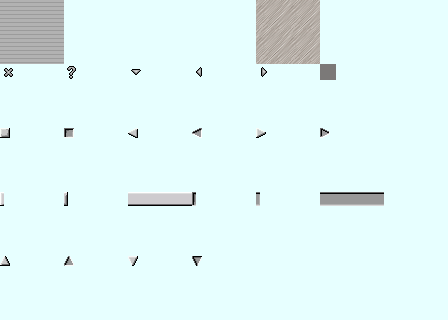
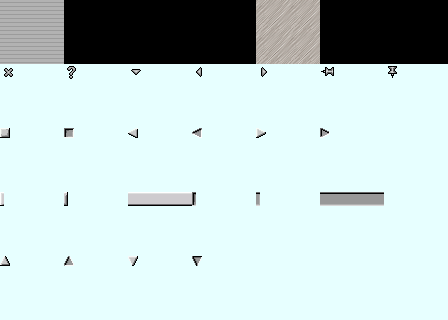
ADD: (sewd) + prissi Sticky window function, which are only closed by delete key
.B-REF a49e5c35c70f19ab73491ef7b6c88d54bbc60263

git-svn-id: svn://tron.homeunix.org/simutrans/simutrans/trunk@3462 8aca7d54-2c30-db11-9de9-000461428c89

Changed region(s): [[0.125, 0.0, 0.5938, 0.2188], [0.6875, 0.0, 1.0, 0.25]]

diff --git a/gui/components/gui_button.cc b/gui/components/gui_button.cc
@@ -27,33 +27,43 @@
 #define AUTOMATIC_MASK (255)
 static const char *empty="";
 
-/*
- * Hajo: image numbers of button skins
- */
-static image_id square_button_pushed = IMG_LEER;
-static image_id square_button_normal = IMG_LEER;
-static image_id arrow_left_pushed = IMG_LEER;
-static image_id arrow_left_normal = IMG_LEER;
-static image_id arrow_right_pushed = IMG_LEER;
-static image_id arrow_right_normal = IMG_LEER;
-static image_id arrow_up_pushed = IMG_LEER;
-static image_id arrow_up_normal = IMG_LEER;
-static image_id arrow_down_pushed = IMG_LEER;
-static image_id arrow_down_normal = IMG_LEER;
+// default button codes
+#define SQUARE_BUTTON 0
+#define ARROW_LEFT 1
+#define ARROW_RIGHT 2
+#define ARROW_UP 3
+#define ARROW_DOWN 4
+#define SCROLL_BAR 5
 
-// these are optional: buttons made out of graphics
-static image_id b_cap_left = IMG_LEER;
-static image_id b_body = IMG_LEER;
-static image_id b_cap_right = IMG_LEER;
-
-static image_id b_cap_left_p = IMG_LEER;
-static image_id b_body_p = IMG_LEER;
-static image_id b_cap_right_p = IMG_LEER;
-
-
+// colors
 #define RB_LEFT_BUTTON (201)
 #define RB_BODY_BUTTON (202)
 #define RB_RIGHT_BUTTON (203)
+
+
+/*
+ * Hajo: image numbers of button skins
+ */
+image_id button_t::square_button_pushed = IMG_LEER;
+image_id button_t::square_button_normal = IMG_LEER;
+image_id button_t::arrow_left_pushed = IMG_LEER;
+image_id button_t::arrow_left_normal = IMG_LEER;
+image_id button_t::arrow_right_pushed = IMG_LEER;
+image_id button_t::arrow_right_normal = IMG_LEER;
+image_id button_t::arrow_up_pushed = IMG_LEER;
+image_id button_t::arrow_up_normal = IMG_LEER;
+image_id button_t::arrow_down_pushed = IMG_LEER;
+image_id button_t::arrow_down_normal = IMG_LEER;
+
+// these are optional: buttons made out of graphics
+image_id button_t::b_cap_left = IMG_LEER;
+image_id button_t::b_body = IMG_LEER;
+image_id button_t::b_cap_right = IMG_LEER;
+
+image_id button_t::b_cap_left_p = IMG_LEER;
+image_id button_t::b_body_p = IMG_LEER;
+image_id button_t::b_cap_right_p = IMG_LEER;
+
 
 /**
  * Lazy button image number init
@@ -93,7 +103,7 @@ void button_t::init_button_images()
  * Displays the different button types
  * @author Hj. Malthaner
  */
-static void display_button_image(sint16 x, sint16 y, int number, bool pushed)
+void button_t::display_button_image(sint16 x, sint16 y, int number, bool pushed) const
 {
 	image_id button = IMG_LEER;
 
@@ -130,7 +140,7 @@ static void display_button_image(sint16 x, sint16 y, int number, bool pushed)
 
 
 // draw a rectangular button
-static void draw_roundbutton(sint16 x, sint16 y, sint16 w, sint16 h, bool pressed)
+void button_t::draw_roundbutton(sint16 x, sint16 y, sint16 w, sint16 h, bool pressed)
 {
 	if(b_cap_left!=IMG_LEER  &&  h==14) {
 		const sint16 lw = skinverwaltung_t::window_skin->get_bild(12)->get_pic()->w;

diff --git a/simmain.cc b/simmain.cc
@@ -184,7 +184,7 @@ static void zeige_banner(karte_t *welt)
 	banner_t* b = new banner_t();
 	event_t ev;
 
-	destroy_all_win();	// since eventually the successful load message is still there ....
+	destroy_all_win(true);	// since eventually the successful load message is still there ....
 
 	create_win(0, -48, b, w_info, magic_none );
 
@@ -237,7 +237,7 @@ static void ask_objfilename()
 	koord xy( display_get_width()/2 - 180, display_get_height()/2 - sel->get_fenstergroesse().y/2 );
 	event_t ev;
 
-	destroy_all_win();	// since eventually the successful load message is still there ....
+	destroy_all_win(true);	// since eventually the successful load message is still there ....
 
 	create_win( xy.x, xy.y, sel, w_info, magic_none );
 
@@ -274,7 +274,7 @@ static void ask_language()
 	koord xy( display_get_width()/2 - sel->get_fenstergroesse().x/2, display_get_height()/2 - sel->get_fenstergroesse().y/2 );
 	event_t ev;
 
-	destroy_all_win();	// since eventually the successful load message is still there ....
+	destroy_all_win(true);	// since eventually the successful load message is still there ....
 	create_win( xy.x, xy.y, sel, w_info, magic_none );
 
 	while(  translator::get_language()==-1  ) {
@@ -958,7 +958,7 @@ DBG_MESSAGE("simmain","loadgame file found at %s",buffer);
 				} while (!IS_LEFTRELEASE(&ev));
 			}
 
-			destroy_all_win();
+			destroy_all_win(true);
 			// scenario?
 			if(wg->get_scenario()) {
 				char path[1024];
@@ -986,7 +986,7 @@ DBG_MESSAGE("simmain","loadgame file found at %s",buffer);
 					umgebung_t::default_einstellungen.rdwr(&file);
 					file.close();
 				}
-				destroy_all_win();
+				destroy_all_win(true);
 				welt->step_month( umgebung_t::default_einstellungen.get_starting_month() );
 				welt->set_pause(false);
 			}

diff --git a/simwerkz.h b/simwerkz.h
@@ -433,7 +433,7 @@ public:
 	bool init( karte_t *welt, spieler_t * ) { return welt->get_einstellungen()->get_allow_player_change(); }
 	const char *work( karte_t *welt, spieler_t *, koord3d ) {
 		welt->get_einstellungen()->set_allow_player_change( false );
-		destroy_all_win();
+		destroy_all_win( true );
 		welt->switch_active_player( 0 );
 		welt->set_werkzeug( general_tool[WKZ_ABFRAGE], welt->get_spieler(0) );
 		return NULL;
@@ -724,7 +724,7 @@ public:
 	wkz_quit_t() : werkzeug_t() { id = WKZ_QUIT | SIMPLE_TOOL; }
 	const char *get_tooltip(spieler_t *) { return translator::translate("Beenden"); }
 	bool init( karte_t *welt, spieler_t * ) {
-		destroy_all_win();
+		destroy_all_win( true );
 		welt->beenden( true );
 		return false;
 	}
@@ -1021,7 +1021,7 @@ public:
 	bool is_selected(karte_t *) const { return win_get_magic(magic_load_t); }
 	bool is_init_network_save() const { return true; }
 	bool init( karte_t *welt, spieler_t * ) {
-		destroy_all_win();
+		destroy_all_win( true );
 		create_win(new loadsave_frame_t(welt, true), w_info, magic_load_t);
 		return false;
 	}
@@ -1195,7 +1195,7 @@ public:
 	const char *get_tooltip(spieler_t *) { return translator::translate("enlarge map"); }
 	bool is_selected(karte_t *) const { return win_get_magic(magic_bigger_map); }
 	bool init( karte_t *welt, spieler_t *sp ) {
-		destroy_all_win();
+		destroy_all_win( true );
 		create_win( new enlarge_map_frame_t(sp,welt), w_info, magic_bigger_map );
 		return false;
 	}

diff --git a/simworld.cc b/simworld.cc
@@ -3998,7 +3998,7 @@ void karte_t::laden(loadsave_t *file)
 	for(  uint i=0;  i<MAX_PLAYER_COUNT;  i++  ) {
 		werkzeug[i] = werkzeug_t::general_tool[WKZ_ABFRAGE];
 	}
-	destroy_all_win();
+	destroy_all_win(true);
 
 	display_set_progress_text(translator::translate("Loading map ..."));
 	display_progress(0, 100);	// does not matter, since fixed width
@@ -4992,7 +4992,7 @@ void karte_t::interactive_event(event_t &ev)
 					if(  ev.ev_code == 8  ) {
 						// Backspace
 						sound_play(click_sound);
-						destroy_all_win();
+						destroy_all_win(false);
 					}
 					// Ignore Enter and Backspace but not Ctrl-H and Ctrl-M
 					break;
@@ -5187,7 +5187,7 @@ bool karte_t::interactive(uint32 quit_month)
 
 		if(ev.ev_class==EVENT_SYSTEM  &&  ev.ev_code==SYSTEM_QUIT) {
 			// Beenden des Programms wenn das Fenster geschlossen wird.
-			destroy_all_win();
+			destroy_all_win(true);
 			umgebung_t::quit_simutrans = true;
 			return false;
 		}

diff --git a/player/simplay.cc b/player/simplay.cc
@@ -332,7 +332,7 @@ void spieler_t::neuer_monat()
 
 	// enough money and scenario finished?
 	if(konto > 0  &&  welt->get_scenario()->active()  &&  finance_history_year[0][COST_SCENARIO_COMPLETED]>=100) {
-		destroy_all_win();
+		destroy_all_win(true);
 		sint32 time = welt->get_current_month()-(welt->get_einstellungen()->get_starting_year()*12);
 		sprintf( buf, translator::translate("Congratulation\nScenario was complete in\n%i months %i years."), time%12, time/12 );
 		create_win(280, 40, new news_img(buf), w_info, magic_none);
@@ -347,7 +347,7 @@ void spieler_t::neuer_monat()
 		if(!welt->get_einstellungen()->is_freeplay()) {
 			if(this == welt->get_spieler(0)) {
 				if(finance_history_year[0][COST_NETWEALTH]<0) {
-					destroy_all_win();
+					destroy_all_win(true);
 					create_win(280, 40, new news_img("Bankrott:\n\nDu bist bankrott.\n"), w_info, magic_none);
 					welt->beenden(false);
 				}

diff --git a/gui/gui_frame.h b/gui/gui_frame.h
@@ -84,7 +84,7 @@ public:
 	 * @return den nicht uebersetzten Namen der Komponente
 	 * @author Hj. Malthaner
 	 */
-	const char * get_name() const { return name; }
+	const char *get_name() const { return name; }
 
 	/**
 	 * setzt den Namen (Fenstertitel)
@@ -131,6 +131,8 @@ public:
 	 * @date   11-May-2002
 	*/
 	koord get_client_windowsize() const {return groesse-koord(0,16); }
+
+	virtual bool has_sticky() const { return true; }
 
 	/**
 	 * Events werden hiermit an die GUI-Komponenten

diff --git a/ifc/gui_fenster.h b/ifc/gui_fenster.h
@@ -72,6 +72,13 @@ public:
 	virtual bool has_prev() const {return has_next();}
 
 	/**
+	 * Does this window need a sticky button?
+	 * @return true if such a button is needed
+	 * @author prissi
+	 */
+	virtual bool has_sticky() const = 0;
+
+	/**
 	 * in top-level fenstern wird der Name in der Titelzeile dargestellt
 	 * @return den nicht uebersetzten Namen der Komponente
 	 * @author Hj. Malthaner

diff --git a/utils/log.cc b/utils/log.cc
@@ -200,7 +200,7 @@ void log_t::fatal(const char *who, const char *format, ...)
 	umgebung_t::verbose_debug = 0;	// no more window concerning messages
 	if(is_display_init()) {
 		// show notification
-		destroy_all_win();
+		destroy_all_win( true );
 
 		strcpy( buffer+n+1, "PRESS ANY KEY\n" );
 		news_img* sel = new news_img(buffer,IMG_LEER);

diff --git a/simconvoi.cc b/simconvoi.cc
@@ -2056,7 +2056,7 @@ void convoi_t::get_freight_info(cbuffer_t & buf)
 		ALLOCA(uint32, max_loaded_waren, n);
 		MEMZERON(max_loaded_waren, n);
 
-		for (size_t i = 0; i != anz_vehikel; ++i) {
+		for(  uint32 i = 0;  i != anz_vehikel;  ++i  ) {
 			const vehikel_t* v = fahr[i];
 
 			// first add to capacity indicator
